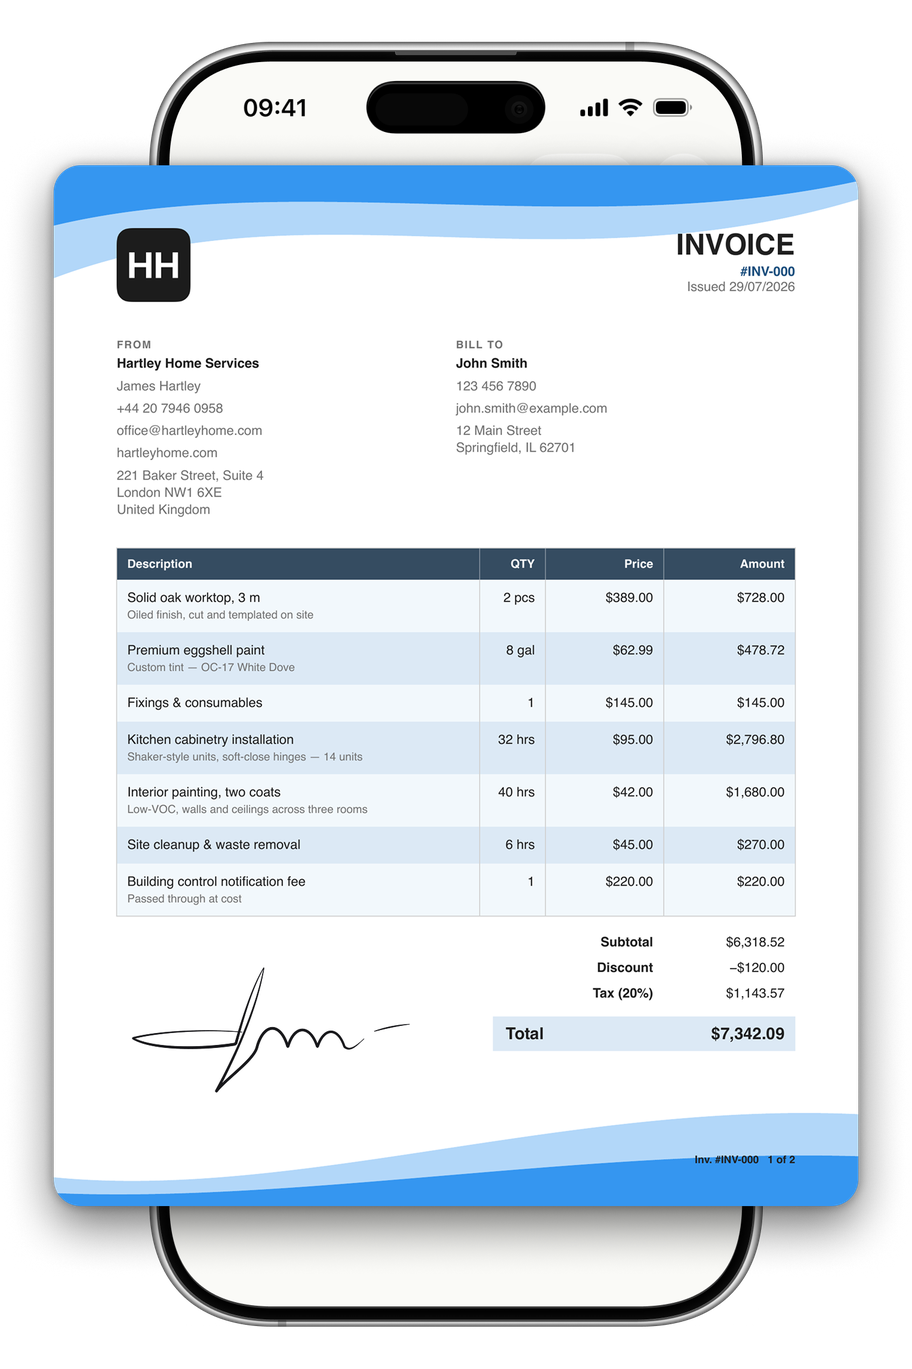
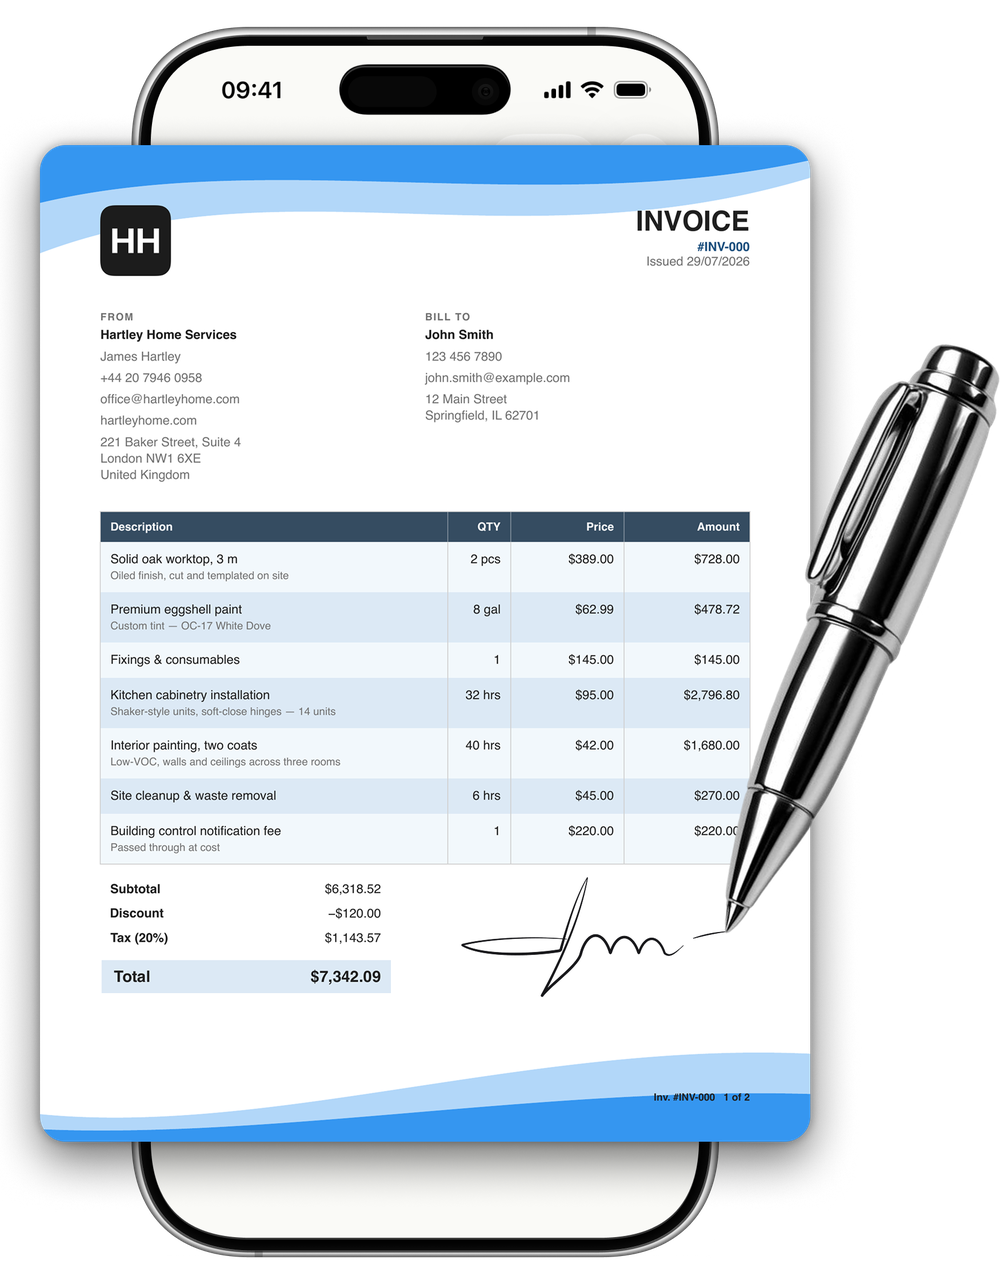
Pen art, audience line up top, benefit-first section order
The pen now reaches past the invoice on the right, so the silhouette is no
longer a rectangle. Decor is placed against a five-band profile read off the
asset's alpha channel, and the right middle is left empty because the pen
owns it: seal above it, initials and the euro below.

Copy changes from the sales audit:
- the audience line moves from under the last CTA, where almost nobody
  reaches it, into an eyebrow above the headline, and drops "small"
- the lede names the problem before the fix
- section order runs benefit first: money, then looks, then trust. Privacy
  used to open, and an objection-handler is a poor opening argument
- meta and og copy catch up with the new positioning

diff --git a/index.html b/index.html
@@ -4,17 +4,17 @@
 <meta charset="utf-8">
 <meta name="viewport" content="width=device-width, initial-scale=1">
 <title>Inko — Invoice Maker &amp; eSign</title>
-<meta name="description" content="Inko is an invoice maker and eSign app for iPhone. Create invoices and estimates, sign any document, and send it in seconds. No account, nothing leaves your device.">
+<meta name="description" content="Inko is an invoice maker and eSign app for iPhone. Bill the client before you leave the job: invoices, estimates and receipts, signed on the spot. No account, no commission, nothing leaves your device.">
 <meta name="apple-itunes-app" content="app-id=6788092513">
 <meta property="og:type" content="website">
 <meta property="og:site_name" content="Inko">
-<meta property="og:title" content="Inko — Invoice Maker &amp; eSign for iPhone">
-<meta property="og:description" content="Create invoices and estimates, sign any document, and send it in seconds. No account, works offline.">
+<meta property="og:title" content="Inko — Invoice. Sign. Get paid.">
+<meta property="og:description" content="Bill the client before you leave the job. Invoices, estimates and receipts, built and signed right on your phone. No account, no commission.">
 <meta property="og:url" content="https://evgeniymityulya.github.io/esign-invoice/">
 <meta property="og:image" content="https://evgeniymityulya.github.io/esign-invoice/og.jpg">
 <meta name="twitter:card" content="summary_large_image">
 <link rel="icon" href="./favicon.png">
-<link rel="stylesheet" href="./style.css?v=15">
+<link rel="stylesheet" href="./style.css?v=16">
 </head>
 <body>
 <div class="bar">
@@ -36,8 +36,9 @@
 
 <section class="hero">
   <img class="app-icon" src="./icon.png" alt="Inko app icon">
+  <span class="eyebrow">For freelancers, tradespeople and business owners</span>
   <h1>Invoice. Sign. Get paid.</h1>
-  <p class="lede">Bill the client before you leave the job.</p>
+  <p class="lede">Stop doing paperwork at 11pm. Bill the client before you leave the job.</p>
   <p class="lede-note">Invoices, estimates and receipts, built and signed right on your phone.</p>
 
   <a class="store-badge" href="https://apps.apple.com/app/id6788092513?itsct=apps_box_badge&amp;itscg=30200" aria-label="Download on the App Store">
@@ -60,7 +61,7 @@
     <div class="device">
       <picture>
         <source srcset="./art/hero-sign.webp" type="image/webp">
-        <img src="./art/hero-sign.png" alt="A signed invoice for a home services job, open on an iPhone" width="912" height="1369">
+        <img src="./art/hero-sign.png" alt="A signed invoice for a home services job, open on an iPhone" width="1000" height="1284">
       </picture>
     </div>
   </div>
@@ -69,27 +70,27 @@
 <section class="zig">
   <div class="zrow">
     <div class="ztext">
-      <span class="ztag">Private by design</span>
-      <h3>No account. Works offline.</h3>
-      <p>Open Inko and start working. There is <strong>no sign-up</strong> and <strong>no cloud</strong>. Your documents <strong>live on your device</strong>, and airplane mode changes nothing.</p>
-    </div>
-    <div class="zart"><img src="./art/3d-shield.png" alt="Polished chrome shield" width="600" height="600"></div>
-  </div>
-  <div class="zrow rev">
-    <div class="ztext">
-      <span class="ztag">Templates</span>
-      <h3>Invoices that look like you</h3>
-      <p>Pick a template, tune colors and fonts, rename fields, and keep <strong>your own numbering</strong>. An estimate <strong>turns into an invoice</strong> once the client signs.</p>
-    </div>
-    <div class="zart"><img src="./art/3d-document.png" alt="Chrome document icon" width="600" height="600"></div>
-  </div>
-  <div class="zrow">
-    <div class="ztext">
       <span class="ztag">Payments</span>
       <h3>No cut of your payments</h3>
       <p>Payment QR codes send clients straight to your PayPal, Stripe, or Revolut. Inko <strong>never holds the money</strong> and takes <strong>no commission</strong>, unlike the big invoicing platforms.</p>
     </div>
     <div class="zart"><img src="./art/3d-coin.png" alt="Chrome dollar coin" width="600" height="600"></div>
+  </div>
+  <div class="zrow rev">
+    <div class="ztext">
+      <span class="ztag">Templates</span>
+      <h3>Invoices that look like you</h3>
+      <p>Pick a template, tune colors and fonts, rename fields, and keep <strong>your own numbering</strong>. An estimate <strong>turns into an invoice</strong> once the client signs, so you never type the same job twice.</p>
+    </div>
+    <div class="zart"><img src="./art/3d-document.png" alt="Chrome document icon" width="600" height="600"></div>
+  </div>
+  <div class="zrow">
+    <div class="ztext">
+      <span class="ztag">Private by design</span>
+      <h3>No account. Works offline.</h3>
+      <p>Open Inko and start working. There is <strong>no sign-up</strong> and <strong>no cloud</strong>. Your documents <strong>live on your device</strong>, and a basement with no signal changes nothing.</p>
+    </div>
+    <div class="zart"><img src="./art/3d-shield.png" alt="Polished chrome shield" width="600" height="600"></div>
   </div>
 </section>
 
@@ -139,7 +140,7 @@
   </a>
 </section>
 
-<p class="closing">Built for freelancers, tradespeople, and small businesses who sign on the go.</p>
+<p class="closing">Made by one developer who got tired of invoicing apps taking a cut.</p>
 
 <footer>
   <span>© 2026 Evgeniy Mityulya</span>

diff --git a/style.css b/style.css
@@ -69,7 +69,13 @@ body {
 
 /* Hero */
 .hero { max-width: 720px; margin: 0 auto; padding: 74px 24px 8px; text-align: center; }
-.hero .app-icon { width: 92px; height: 92px; border-radius: 21px; margin-bottom: 28px; box-shadow: 0 12px 34px rgba(20,21,24,.20); }
+.hero .app-icon { width: 92px; height: 92px; border-radius: 21px; margin-bottom: 22px; box-shadow: 0 12px 34px rgba(20,21,24,.20); }
+/* Who this is for, before the pitch: a visitor decides "that's me" or leaves,
+   and the line that answered it used to sit under the final CTA. */
+.eyebrow {
+  display: block; margin: 0 0 14px; font-size: 12.5px; font-weight: 700;
+  letter-spacing: .09em; text-transform: uppercase; color: var(--text-2);
+}
 h1 {
   font-size: clamp(2.1rem, 5.4vw, 3.15rem); font-weight: 780; line-height: 1.06;
   letter-spacing: -0.03em; margin: 0 0 16px; text-wrap: balance;
@@ -104,26 +110,36 @@ h1 {
   margin: 46px 0 -2px; padding: 0 24px;
 }
 /* The art carries its own phone body and shadow, so no CSS chrome here.
-   Within the 1528px source: the frame spans 17.1%–82.9% of the width, the
-   invoice sheet bleeds wider at 5.9%–94.0% across the middle 12%–88% of the
-   height. Those edges, not the frame, are what the decor has to clear. */
-.device { width: min(456px, 100%); margin: 0 auto; }
+   Its silhouette is not a rectangle, and that is what the decor has to clear
+   (percentages of the art box, measured off the asset's alpha channel):
+
+     height band   left    right
+     0–10%         13.3%   71.7%   phone frame only
+     10–25%         4.0%   80.9%   invoice sheet
+     25–65%         4.0%   99.8%   sheet + the pen reaching out right
+     65–90%         4.0%   80.9%   sheet
+     90–100%       13.2%   71.7%   phone frame only
+
+   The pen owns the middle of the right side, so nothing else goes there. */
+.device { width: min(500px, 100%); margin: 0 auto; }
 .device img, .device picture { display: block; width: 100%; height: auto; }
-/* The two arcs read as one wide oval around the phone: ink marks (signature,
-   seal, initials) swing out furthest at mid-height, currencies hug the frame.
-   Slightly darker than before — the old tint all but vanished on white. */
+/* Six marks on a ring around the art, the pen counting as the seventh: seal
+   top right, pen mid right, initials low right, then dollar, signature and
+   pound back up the left. Nothing sits beside the pen. */
 .dec { position: absolute; }
-.dec-sign { width: 190px; left: 1%; top: 38%; transform: rotate(-8deg); opacity: .22; }
+.dec-sign { width: 170px; left: 2.5%; top: 38%; transform: rotate(-8deg); opacity: .22; }
 .dec-init {
-  right: 2.5%; top: 43%; transform: rotate(-6deg);
+  right: 7%; top: 68%; transform: rotate(-6deg);
   font-family: "Snell Roundhand", "Apple Chancery", "Segoe Script", cursive;
   font-size: 56px; line-height: 1; color: #C8C8C3;
 }
-.dec-seal { width: 150px; right: 7%; top: 3%; transform: rotate(10deg); color: #C3C3BE; }
+/* Smaller and higher than it used to be: it has to finish above the 25% mark,
+   where the pen starts claiming the right side. */
+.dec-seal { width: 132px; right: 14%; top: 0.5%; transform: rotate(10deg); color: #C3C3BE; }
 .cur { font-weight: 800; line-height: 1; color: #CECEC9; }
-.cur-usd { font-size: 56px; left: 19.5%; bottom: 14%; transform: rotate(-11deg); }
-.cur-eur { font-size: 64px; right: 19.5%; top: 68%; transform: rotate(9deg); }
-.cur-gbp { font-size: 48px; left: 26%; top: 4%; transform: rotate(-7deg); }
+.cur-usd { font-size: 56px; left: 16.5%; bottom: 15%; transform: rotate(-11deg); }
+.cur-eur { font-size: 64px; right: 23.5%; top: 82%; transform: rotate(9deg); }
+.cur-gbp { font-size: 48px; left: 17.5%; top: 3%; transform: rotate(-7deg); }
 @media (prefers-reduced-motion: no-preference) {
   .dec-seal { animation: decbob 7s var(--ease-in-out) infinite; }
   .dec-sign { animation: decbob 8.6s var(--ease-in-out) infinite; animation-delay: -3.2s; }
@@ -139,13 +155,13 @@ h1 {
 /* Narrower stage, narrower side gutters: shrink the marks so they still clear
    the phone instead of drifting over it. */
 @media (max-width: 1040px) {
-  .device { width: min(380px, 100%); }
-  .dec-sign { width: 150px; left: 1%; }
-  .dec-seal { width: 104px; right: 4%; }
-  .dec-init { font-size: 38px; right: 1.5%; }
-  .cur-usd { font-size: 40px; left: 19%; }
-  .cur-eur { font-size: 42px; right: 18%; }
-  .cur-gbp { font-size: 34px; left: 19%; }
+  .device { width: min(420px, 100%); }
+  .dec-sign { width: 132px; left: 1.5%; }
+  .dec-seal { width: 104px; right: 8%; }
+  .dec-init { font-size: 40px; right: 4%; }
+  .cur-usd { font-size: 40px; left: 13%; }
+  .cur-eur { font-size: 42px; right: 20%; }
+  .cur-gbp { font-size: 34px; left: 14%; }
 }
 /* Below this the phone eats the full width — there is no gutter left to stand
    in, and decor drawn over the screenshot is what made it invisible. */
